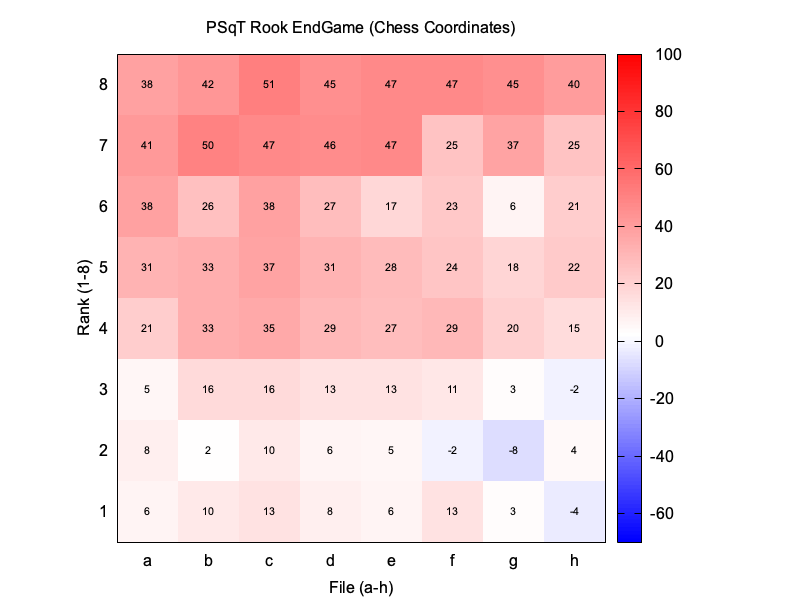
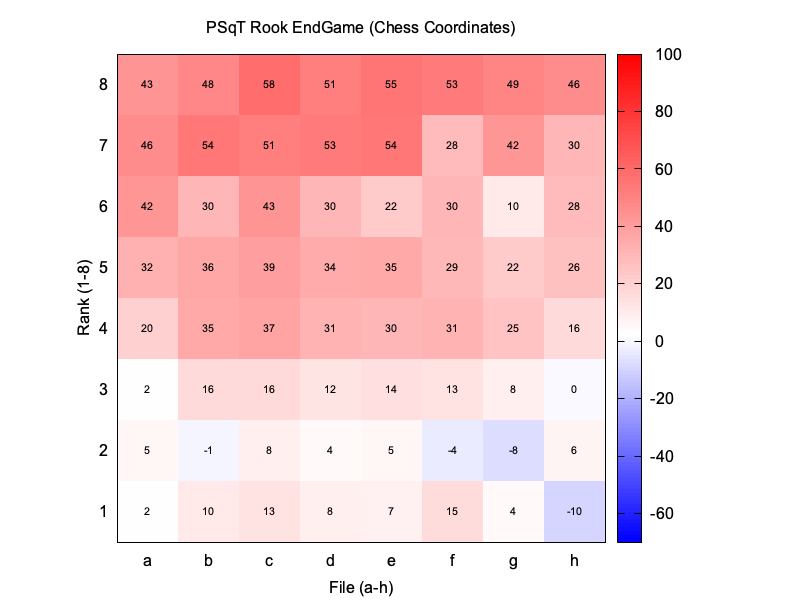
E12.all
bench 12197529

diff --git a/eval/coeffs.go b/eval/coeffs.go
@@ -1,186 +1,186 @@
 package eval
 
 // this file is autogenerated by chess-3/tools/tuner
-// epoch: 40, mse: 0.082861
-// 2025-10-29 13:29:18.183060381 +0100 CET m=+150229.343404273
+// epoch: 25, mse: 0.099925 E12.all.epd
+// 2025-10-30 22:17:40.055588075 +0100 CET m=+87370.488112315
 
 import (
 	. "github.com/paulsonkoly/chess-3/types"
 )
 
 var Coefficients = CoeffSet[Score]{
-PSqT: [12][64]Score {
+PSqT: [12][64]Score{
 	{
 		   0,    0,    0,    0,    0,    0,    0,    0,
-		 103,  107,  100,  111,  113,   62,  -71,  -62,
-		   6,   31,   47,   44,   60,  113,   68,   20,
-		   4,   16,   16,   31,   46,   47,   35,   11,
-		  -1,    2,   10,   17,   24,   22,   20,    7,
-		  -3,   -4,    1,    4,   15,   16,   27,   12,
-		  -4,   -6,   -9,   -5,   -4,   26,   36,    8,
-		   0,    0,    0,    0,    0,    0,    0,    0,
-	},
-	{
-		   0,    0,    0,    0,    0,    0,    0,    0,
-		 120,  113,   95,   53,   46,   68,  123,  131,
-		  41,   31,    3,  -32,  -39,  -20,    2,   12,
-		  11,    0,  -12,  -36,  -32,  -26,  -13,  -13,
-		  -8,   -9,  -24,  -28,  -27,  -23,  -23,  -24,
-		 -14,  -17,  -19,  -21,  -16,  -17,  -28,  -30,
-		 -10,  -15,  -12,  -13,   -3,  -10,  -27,  -38,
+		  97,   97,   97,  108,  111,   57,  -72,  -55,
+		   5,   29,   42,   38,   55,  106,   56,   16,
+		   6,   17,   15,   30,   42,   44,   30,    8,
+		   2,    5,   10,   14,   20,   19,   19,    8,
+		   2,   -3,    1,    2,   12,   15,   24,   13,
+		  -1,   -5,  -10,   -5,   -6,   24,   33,    9,
 		   0,    0,    0,    0,    0,    0,    0,    0,
 	},
 	{
-		-187, -112,  -98,  -24,   16, -105,  -95, -142,
-		 -15,  -10,   34,   55,   38,   69,  -16,   13,
-		 -25,   15,   31,   39,   81,   72,   43,   16,
-		  -1,    5,   21,   29,   19,   43,   20,   31,
-		  -9,    4,   12,   13,   23,   19,   36,    8,
-		 -24,   -7,   -2,   12,   17,    6,    5,   -8,
-		 -37,  -32,  -16,    0,   -3,    0,  -11,   -9,
-		 -93,  -26,  -45,  -18,  -16,  -11,  -22,  -68,
+		   0,    0,    0,    0,    0,    0,    0,    0,
+		 124,  118,   95,   55,   46,   69,  122,  128,
+		  47,   33,    7,  -27,  -34,  -14,    5,   13,
+		  12,    2,  -10,  -33,  -28,  -23,  -10,  -10,
+		  -7,   -8,  -23,  -26,  -25,  -20,  -21,  -23,
+		 -14,  -17,  -18,  -20,  -14,  -14,  -27,  -29,
+		  -8,  -15,  -10,  -13,   -2,   -6,  -25,  -39,
+		   0,    0,    0,    0,    0,    0,    0,    0,
 	},
 	{
-		 -41,    7,   26,   10,    6,   32,   11,  -59,
-		 -13,    2,    0,   20,   16,  -18,    3,  -19,
-		  -7,    3,   35,   33,   16,   20,   -6,  -11,
-		   2,   14,   37,   46,   45,   34,   26,    8,
-		   8,   22,   48,   44,   47,   48,   25,   19,
-		 -21,    7,   17,   37,   33,   14,    8,   -7,
-		  -6,   12,    0,   13,   16,   -5,    7,    5,
-		 -15,  -30,   -3,   10,   10,   -2,  -17,  -22,
+		-171,  -98, -108,  -24,   17, -110,  -66, -144,
+		 -17,  -16,   25,   40,   33,   54,  -26,    5,
+		 -31,    6,   19,   28,   63,   51,   31,   11,
+		  -4,   -1,   13,   17,    9,   32,   13,   22,
+		 -12,   -3,    5,    3,   13,    9,   28,    2,
+		 -26,  -10,   -8,    4,    8,   -1,   -2,  -13,
+		 -37,  -33,  -20,   -7,  -11,   -7,  -18,  -14,
+		 -96,  -25,  -49,  -23,  -17,  -16,  -20,  -75,
 	},
 	{
-		 -65,  -62, -101, -102,  -83, -120,  -29,  -62,
-		 -51,  -12,  -15,  -33,  -12,   -8,  -27,  -50,
-		  -9,    5,   25,   20,   31,   52,   36,    8,
-		 -21,    6,    5,   34,   18,   18,    2,  -14,
-		 -16,   -5,   -3,   11,   12,  -10,   -4,   -5,
-		 -13,    1,   -4,   -3,   -5,   -2,    0,    3,
-		  -2,    0,    3,  -13,   -7,    0,   14,    3,
-		  -2,   -2,  -20,  -27,  -24,  -14,  -11,   -8,
+		 -48,    7,   32,   13,    9,   43,   11,  -55,
+		 -16,    3,    3,   31,   26,  -13,    5,  -16,
+		  -8,    6,   42,   40,   25,   34,    0,   -8,
+		   2,   17,   42,   53,   51,   41,   30,   13,
+		   5,   25,   52,   49,   53,   55,   31,   22,
+		 -27,    6,   17,   40,   36,   16,   10,  -10,
+		 -10,   11,   -3,   14,   18,   -5,    8,    4,
+		 -33,  -35,   -7,   10,    7,   -3,  -22,  -32,
 	},
 	{
-		  33,   33,   34,   40,   33,   32,   20,   26,
-		  20,   23,   24,   24,   19,   21,   28,   18,
-		  17,   26,   22,   16,   18,   27,   23,   17,
-		  14,   25,   23,   29,   35,   23,   31,   20,
-		   7,   16,   29,   32,   29,   27,   16,    3,
-		   6,   15,   21,   23,   26,   17,   10,    5,
-		   5,   -4,    0,   12,   11,    3,    3,  -21,
-		  -8,    5,    5,    8,   11,   10,    0,   -5,
+		 -63,  -66, -122, -102,  -86, -121,  -19,  -56,
+		 -58,  -18,  -21,  -37,  -21,  -13,  -38,  -56,
+		 -16,   -5,   20,    9,   25,   33,   27,   -2,
+		 -27,    0,   -4,   26,    8,   11,   -4,  -17,
+		 -21,  -11,   -9,    1,    5,  -16,   -9,   -9,
+		 -19,   -8,  -11,  -10,  -13,  -10,   -8,   -3,
+		  -9,   -7,   -5,  -19,  -15,   -9,    5,   -3,
+		  -7,  -10,  -25,  -33,  -32,  -20,  -21,  -12,
 	},
 	{
-		  49,   50,   34,   47,   48,   61,   63,   81,
-		  11,    1,   30,   46,   42,   64,   21,   51,
-		  -8,   31,   20,   41,   67,   64,   88,   34,
-		 -15,   -4,    5,   26,   17,   25,   24,   16,
-		 -32,  -29,  -24,  -13,  -16,  -22,   -1,  -16,
-		 -35,  -25,  -26,  -16,  -16,  -20,    4,  -17,
-		 -52,  -22,  -16,  -10,  -13,   -4,    8,  -39,
-		 -21,  -15,   -9,   -2,   -3,   -6,    4,  -19,
+		  36,   39,   42,   44,   37,   38,   23,   32,
+		  26,   28,   28,   28,   26,   26,   32,   24,
+		  19,   32,   25,   22,   22,   37,   29,   22,
+		  16,   28,   26,   33,   41,   27,   36,   22,
+		   7,   18,   32,   36,   33,   30,   18,    6,
+		   6,   17,   23,   25,   27,   18,   11,    8,
+		   2,   -1,    4,   13,   13,    3,    6,  -24,
+		  -7,    6,    4,    8,   13,   10,    5,   -2,
 	},
 	{
-		  38,   42,   51,   45,   47,   47,   45,   40,
-		  41,   50,   47,   46,   47,   25,   37,   25,
-		  38,   26,   38,   27,   17,   23,    6,   21,
-		  31,   33,   37,   31,   28,   24,   18,   22,
-		  21,   33,   35,   29,   27,   29,   20,   15,
-		   5,   16,   16,   13,   13,   11,    3,   -2,
-		   8,    2,   10,    6,    5,   -2,   -8,    4,
-		   6,   10,   13,    8,    6,   13,    3,   -4,
+		  45,   47,   25,   39,   39,   62,   68,   79,
+		   8,   -2,   25,   40,   36,   61,   15,   46,
+		 -11,   26,   18,   40,   62,   65,   84,   27,
+		 -16,   -6,    4,   24,   13,   21,   23,   14,
+		 -32,  -31,  -27,  -17,  -20,  -23,   -5,  -15,
+		 -35,  -27,  -29,  -19,  -21,  -24,   -1,  -21,
+		 -56,  -24,  -20,  -15,  -18,   -6,    3,  -49,
+		 -23,  -18,  -13,   -7,   -8,  -10,    2,  -18,
 	},
 	{
-		 -28,    1,    8,   20,   32,   67,   33,   21,
-		 -17,  -46,   -5,  -29,  -21,   29,  -40,   21,
-		 -10,   -1,   -2,    7,   17,   60,   62,   35,
-		  -5,   -4,   -7,   -6,    2,    8,   22,   17,
-		   0,    1,    0,   -1,    1,    9,   10,   17,
-		  -3,    7,    9,    4,    7,    7,   18,   13,
-		   1,    9,   13,   14,   13,   25,   30,   17,
-		   5,    1,    7,   13,   15,  -11,    2,   -8,
+		  43,   48,   58,   51,   55,   53,   49,   46,
+		  46,   54,   51,   53,   54,   28,   42,   30,
+		  42,   30,   43,   30,   22,   30,   10,   28,
+		  32,   36,   39,   34,   35,   29,   22,   26,
+		  20,   35,   37,   31,   30,   31,   25,   16,
+		   2,   16,   16,   12,   14,   13,    8,    0,
+		   5,   -1,    8,    4,    5,   -4,   -8,    6,
+		   2,   10,   13,    8,    7,   15,    4,  -10,
 	},
 	{
-		  66,   65,   77,   92,  104,   95,   88,   99,
-		  37,   64,   61,  102,  143,  119,  105,   69,
-		  28,   33,   62,   67,   99,  100,   69,   75,
-		  17,   55,   49,   80,   95,  107,   95,   67,
-		   0,   38,   41,   75,   66,   66,   44,   44,
-		 -15,    5,   30,   21,   23,   34,    2,  -12,
-		 -27,  -16,  -26,   -6,  -10,  -51,  -71,  -49,
-		 -24,  -35,  -30,  -16,  -35,  -32,  -56,  -11,
+		 -25,    2,    3,   17,   30,   80,   39,   35,
+		 -18,  -43,   -5,  -31,  -20,   30,  -46,   14,
+		 -11,   -2,   -4,    3,    9,   54,   49,   24,
+		  -3,   -5,   -8,  -10,   -4,    3,   19,   15,
+		   1,    0,    0,   -4,   -4,    7,    8,   16,
+		  -3,    6,    7,    2,    5,    3,   16,   12,
+		   0,    7,   11,    9,   10,   22,   29,   13,
+		   5,    3,    8,   11,   13,  -12,    1,   -7,
 	},
 	{
-		 135,  215,  184,  123,   64,   88,   62,  170,
-		 -17,  113,  116,  162,  107,  115,   71,  -39,
-		  36,  133,  138,   96,  115,  149,   95,    6,
-		  25,   70,   81,   40,   55,   59,   47,  -42,
-		 -14,   30,   48,    6,   18,   11,   15,  -63,
-		 -35,  -19,  -21,  -26,  -12,  -28,  -12,  -46,
-		  14,  -11,  -30,  -65,  -51,  -51,   -4,   10,
-		   2,   37,    3,  -75,  -28,  -72,   15,   21,
+		  70,   70,   88,   99,  113,  102,  108,  105,
+		  41,   66,   60,  108,  149,  135,  138,   87,
+		  26,   33,   61,   70,  110,  119,  100,  100,
+		  11,   54,   49,   85,  106,  122,  106,   78,
+		  -4,   36,   38,   78,   69,   70,   48,   50,
+		 -18,    3,   29,   18,   19,   34,    1,  -14,
+		 -28,  -17,  -29,   -6,  -13,  -58,  -73,  -44,
+		 -29,  -42,  -39,  -20,  -40,  -37,  -65,  -21,
 	},
 	{
-		-175, -101,  -67,  -30,  -31,  -34,  -35, -165,
-		 -27,   11,   10,   -8,    8,   14,   34,  -14,
-		  -1,   23,   25,   29,   23,   35,   38,    3,
-		  -3,   25,   36,   45,   41,   37,   30,    7,
-		 -18,   15,   31,   47,   41,   32,   14,   -3,
-		 -13,    9,   22,   35,   30,   22,    1,  -10,
-		 -19,   -3,   11,   19,   16,   15,   -9,  -35,
-		 -67,  -39,  -20,  -13,  -38,   -5,  -37,  -89,
+		 145,  269,  239,  180,  135,  139,  135,  163,
+		  28,  131,  185,  172,  126,  143,   81,  -10,
+		  56,  144,  178,  139,  150,  166,  113,    5,
+		  32,   98,  109,   69,   79,   87,   62,  -32,
+		  14,   52,   82,   27,   43,   27,   28,  -51,
+		 -27,  -14,   -6,  -11,   -2,  -19,   -8,  -39,
+		   5,  -13,  -32,  -71,  -49,  -53,   -7,    8,
+		 -10,   26,   -9,  -71,  -30,  -76,   10,   17,
+	},
+	{
+		-217, -112,  -78,  -44,  -50,  -50,  -50, -185,
+		 -42,   14,    1,  -11,    1,    8,   35,  -32,
+		   3,   28,   22,   20,   12,   34,   39,    2,
+		   2,   25,   35,   42,   38,   35,   30,    6,
+		 -21,   15,   28,   46,   39,   32,   14,   -6,
+		 -11,   10,   21,   34,   30,   21,    2,  -10,
+		 -12,   -1,   14,   21,   16,   17,   -7,  -33,
+		 -61,  -30,  -14,  -18,  -44,   -4,  -33,  -89,
 	},
 },
-PieceValues: [2][7]Score {
-	{    0,   72,  376,  385,  490, 1056,    0},
-	{    0,  144,  365,  387,  712, 1379,    0},
+PieceValues: [2][7]Score{
+	{    0,   58,  302,  308,  375,  839,    0},
+	{    0,  151,  397,  422,  761, 1469,    0},
 },
-TempoBonus: [2]Score {   11,   13},
-KingAttackPieces: [2][4]Score {
+TempoBonus: [2]Score{    8,   12},
+KingAttackPieces: [2][4]Score{
 	{    8,    8,   10,   16},
-	{  -54,   16,    3,  -81},
+	{  -51,   15,    5,  -81},
 },
-SafeChecks: [2][4]Score {
-	{    7,    6,    6,    6},
-	{   11,    0,    3,    7},
+SafeChecks: [2][4]Score{
+	{    6,    4,    6,    5},
+	{    9,    2,    3,    7},
 },
-KingShelter: [2]Score {    7,   -1},
-MobilityKnight: [2][9]Score {
-	{  -42,  -32,  -28,  -24,  -21,  -17,  -12,   -5,    4},
-	{  -65,   -4,   25,   41,   51,   60,   59,   51,   34},
+KingShelter: [2]Score{    7,    0},
+MobilityKnight: [2][9]Score{
+	{  -51,  -42,  -40,  -37,  -35,  -32,  -27,  -20,  -11},
+	{  -62,   -1,   29,   47,   57,   66,   65,   57,   39},
 },
-MobilityBishop: [2][14]Score {
-	{  -32,  -30,  -24,  -23,  -20,  -15,  -10,   -9,   -9,   -7,   -5,   -2,   -3,   33},
-	{  -28,   -7,    5,   19,   33,   46,   54,   62,   68,   67,   64,   64,   63,   45},
+MobilityBishop: [2][14]Score{
+	{  -39,  -38,  -34,  -34,  -32,  -27,  -23,  -23,  -23,  -21,  -20,  -16,  -16,   24},
+	{  -28,   -4,    7,   22,   38,   51,   60,   68,   74,   74,   72,   71,   69,   50},
 },
-MobilityRook: [2][11]Score {
-	{  -20,  -15,  -15,  -12,   -9,   -3,    3,    9,   12,   14,   35},
-	{   -2,    6,   19,   27,   38,   43,   48,   50,   56,   60,   48},
+MobilityRook: [2][11]Score{
+	{  -21,  -17,  -18,  -15,  -13,   -8,   -3,    3,    4,    7,   29},
+	{   -2,    6,   22,   30,   43,   49,   54,   57,   62,   67,   54},
 },
-KnightOutpost: [2][40]Score {
+KnightOutpost: [2][40]Score{
 	{
-		   5,   25,   78,   60,   81,   95,  180,  -32,
-		  45,   16,  -10,   -9,   35,  -22,   -6,  -11,
-		   9,   -5,   20,   20,    5,   30,   12,   34,
-		  11,   22,   28,   33,   43,   59,   48,   20,
-		   0,    0,    0,   34,   35,    0,    0,    0,
+		 -12,   21,   79,   73,   58,  100,  194,  -19,
+		  42,   13,   -5,   11,   53,  -19,   -2,  -19,
+		  12,   -3,   24,   16,    4,   36,   12,   45,
+		  11,   21,   26,   31,   39,   57,   41,   26,
+		   0,    0,    0,   31,   27,    0,    0,    0,
 	},
 	{
-		 -31,   43,    7,    6,   -3,   50,  -33,   36,
-		   2,    8,   19,    1,   -1,   29,   22,   18,
-		  37,   44,   23,   27,   38,   39,   52,   33,
-		  20,   18,   24,   30,   35,   21,   17,   18,
-		   0,    0,    0,   20,   20,    0,    0,    0,
+		 -39,   41,   13,   12,   13,   18,  -27,   45,
+		  14,   10,   17,   -5,   -9,   22,   27,   16,
+		  36,   47,   23,   28,   40,   36,   55,   25,
+		  18,   19,   24,   33,   37,   24,   21,   16,
+		   0,    0,    0,   23,   22,    0,    0,    0,
 	},
 },
-ConnectedRooks: [2]Score {    2,   15},
-BishopPair: [9]Score {   13,   57,   59,   52,   46,   40,   34,   28,   21},
-ProtectedPasser: [2]Score {   20,    4},
-PasserKingDist: [2]Score {   -5,   11},
-PasserRank: [2][6]Score {
-	{  -14,  -23,  -16,   10,   36,   69},
-	{   18,   19,   44,   68,  123,   78},
+ConnectedRooks: [2]Score{    2,   17},
+BishopPair: [9]Score{   22,   60,   62,   52,   45,   38,   32,   24,   16},
+ProtectedPasser: [2]Score{   18,    4},
+PasserKingDist: [2]Score{   -8,   12},
+PasserRank: [2][6]Score{
+	{  -14,  -22,  -16,    9,   33,   62},
+	{   20,   21,   46,   70,  126,   84},
 },
-DoubledPawns: [2]Score {  -13,  -16},
-IsolatedPawns: [2]Score {  -12,  -15},
+DoubledPawns: [2]Score{  -12,  -17},
+IsolatedPawns: [2]Score{  -10,  -16},
 }

diff --git a/docs/eval/readme.md b/docs/eval/readme.md
@@ -84,7 +84,7 @@
 ![TempoBonus](tempobonus.png)
 
 
-Middle Game: 11 | End Game: 13
+Middle Game: 8 | End Game: 12
 
 
 ## KingAttackPieces
@@ -104,7 +104,7 @@ Middle Game: 11 | End Game: 13
 ![KingShelter](kingshelter.png)
 
 
-Middle Game: 7 | End Game: -1
+Middle Game: 7 | End Game: 0
 
 
 ## MobilityKnight
@@ -142,7 +142,7 @@ Middle Game: 7 | End Game: -1
 ![ConnectedRooks](connectedrooks.png)
 
 
-Middle Game: 2 | End Game: 15
+Middle Game: 2 | End Game: 17
 
 
 ## BishopPair
@@ -156,7 +156,7 @@ Middle Game: 2 | End Game: 15
 ![ProtectedPasser](protectedpasser.png)
 
 
-Middle Game: 20 | End Game: 4
+Middle Game: 18 | End Game: 4
 
 
 ## PasserKingDist
@@ -164,7 +164,7 @@ Middle Game: 20 | End Game: 4
 ![PasserKingDist](passerkingdist.png)
 
 
-Middle Game: -5 | End Game: 11
+Middle Game: -8 | End Game: 12
 
 
 ## PasserRank
@@ -178,7 +178,7 @@ Middle Game: -5 | End Game: 11
 ![DoubledPawns](doubledpawns.png)
 
 
-Middle Game: -13 | End Game: -16
+Middle Game: -12 | End Game: -17
 
 
 ## IsolatedPawns
@@ -186,6 +186,6 @@ Middle Game: -13 | End Game: -16
 ![IsolatedPawns](isolatedpawns.png)
 
 
-Middle Game: -12 | End Game: -15
+Middle Game: -10 | End Game: -16
 
 
